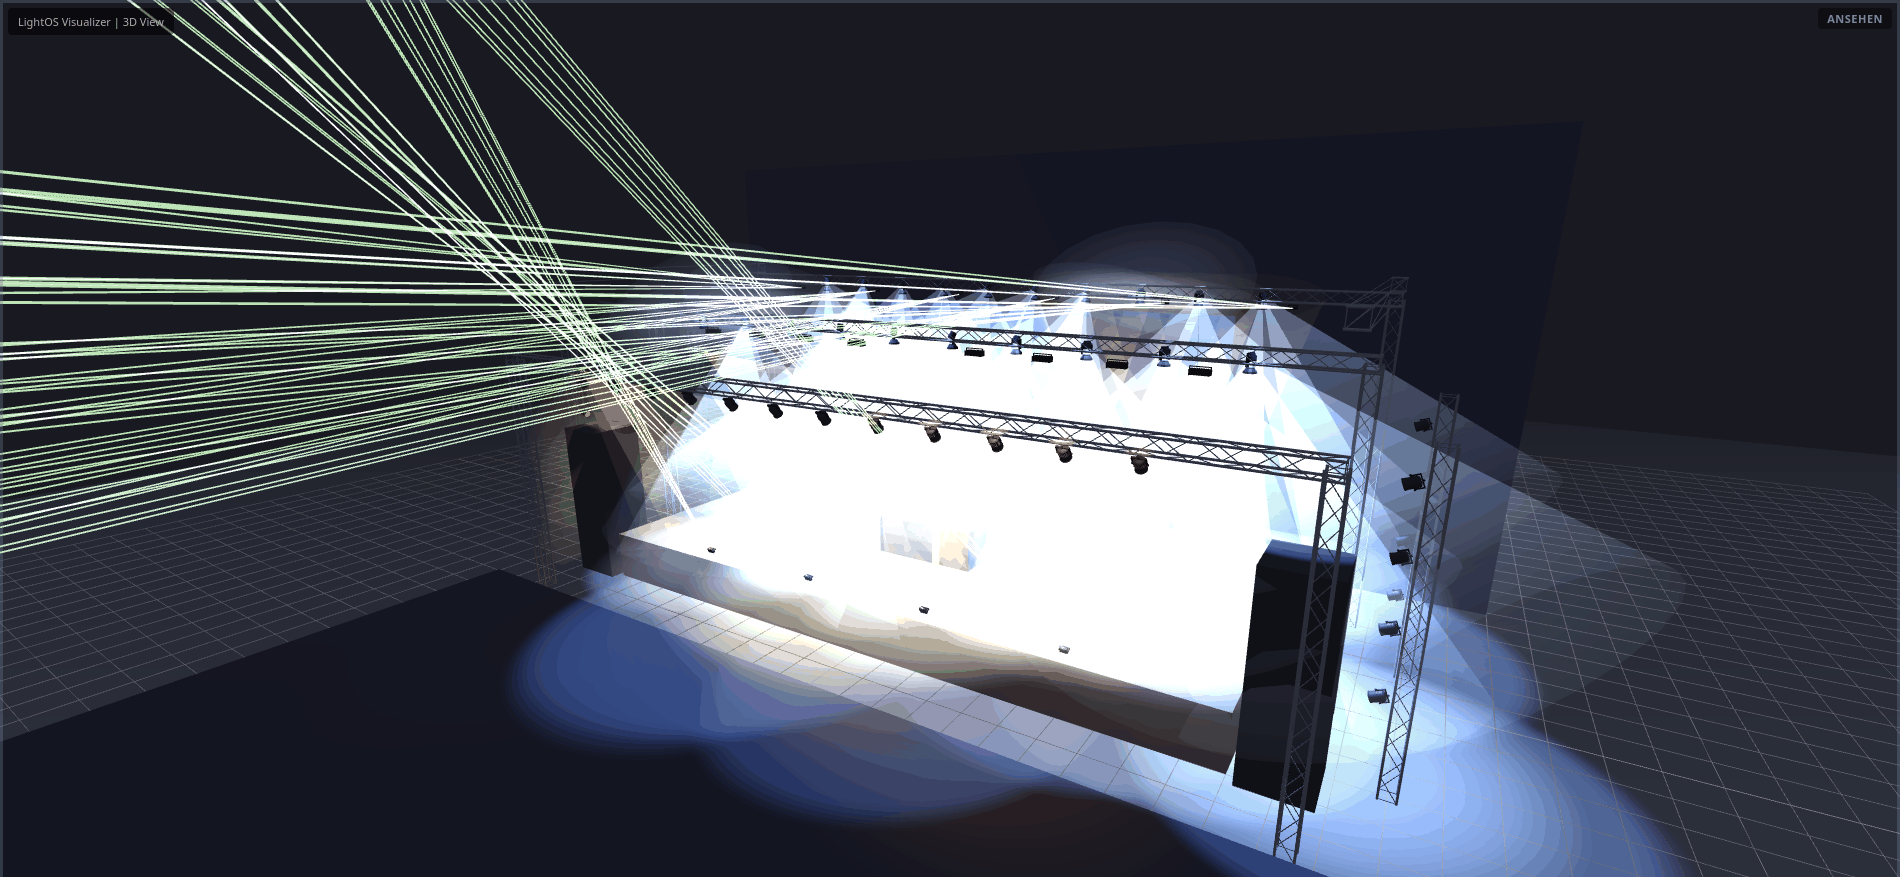
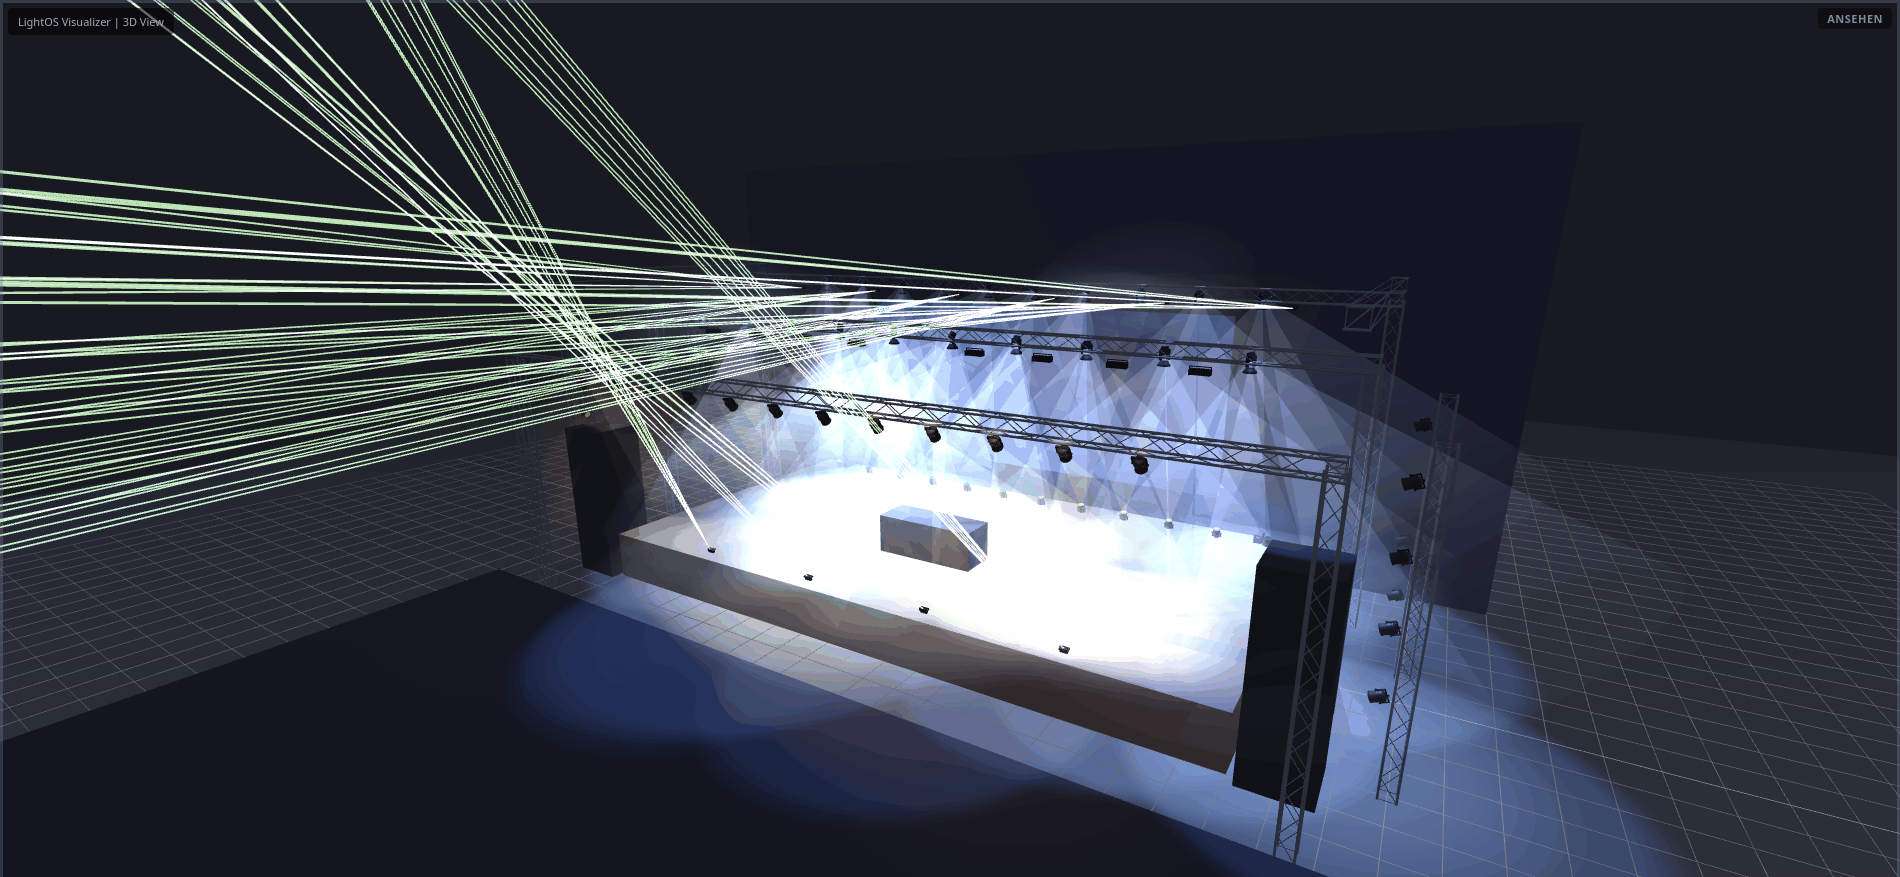
docs(show): 3D-Bilder der Buehnen-Show am Bildschirm neu, Laser + Prisma-GIF (DOC-60)
- Neues GIF 10_laser_prisma: „Laser langsam“ schwenkt die Strahlen (VIZ-79),
  Moving Heads mit Gobo + Prisma zeigen drei Kegel je Kopf (VIZ-80).
- 18_laser_3d laenger (24 Bilder, 8 s), damit der Chaser-Uebergang ganz zu
  sehen ist; Kamera naeher.
- Strahl-Deckkraft 20 %, Breakdown-Standbild mit Grand Master 40 %.
- Uebrige 3D-Bilder und VC-Seiten neu aufgenommen (Bank 2 mit fuenf
  eigenen Knoepfen, Laser NOT-AUS in der Laser-Reihe).
- VIZ-82: generische Gobos („Gobo 2“) erscheinen im 3D ohne Muster.

Changed region(s): [[0.2484, 0.2771, 0.9005, 1.0]]

diff --git a/tools/anleitungsbilder/szenen_buehnen_show.py b/tools/anleitungsbilder/szenen_buehnen_show.py
@@ -41,9 +41,9 @@ _GROESSE = (1900, 1000)     # Visualizer-Fenster
 _HINWEIS_H = 40             # unten: Bedienhinweis der 3D-Ansicht, kommt nicht ins Bild
 _TAKT = 1.0 / 44.0          # ein DMX-Frame
 
-# Darstellung: Strahlen bewusst zurueckhaltend (Deckkraft 22 %), Nebel an,
+# Darstellung: Strahlen bewusst zurueckhaltend (Deckkraft 20 %), Nebel an,
 # Szene dunkel — die Buehne bleibt zwischen den Strahlen gut sichtbar.
-STRAHL_DECKKRAFT = 22
+STRAHL_DECKKRAFT = 20
 HELLIGKEIT = 10
 
 # Kameras wie camera/presets.js (theta/phi/radius/target); theta 0 = von vorn
@@ -410,7 +410,7 @@ _GIF_ZUSCHNITT = (230, 110, 1440, 767)
 
 
 def _fahrt_gif(name, titel, knoepfe, kam_von, kam_bis, *, n=18, schritt_s=0.2,
-               vorlauf_s=1.5, breite=640, weich=True):
+               vorlauf_s=1.5, breite=640, weich=True, gm=1.0):
     """GIF mit Kamerafahrt: je Frame laeuft die Show ``schritt_s`` weiter und
     die Kamera rueckt ein Stueck von ``kam_von`` nach ``kam_bis``."""
     uhr = Uhr()
@@ -421,7 +421,7 @@ def _fahrt_gif(name, titel, knoepfe, kam_von, kam_bis, *, n=18, schritt_s=0.2,
             kamera_sofort(ui, kamera_zwischen(kam_von, kam_bis, i / max(1, n - 1),
                                               weich=weich))
         return schritt
-    return Szene(name, sektion="Bühne", vorher=_vorbereitung(knoepfe, kam_von, vorlauf_s),
+    return Szene(name, sektion="Bühne", vorher=_vorbereitung(knoepfe, kam_von, vorlauf_s, gm),
                  nachher=_aufraeumen, braucht_gpu=True, groesse=_GROESSE,
                  gif_breite=breite, gif_zuschnitt=_GIF_ZUSCHNITT, warte_s=0.3,
                  frames=[Frame(dauer_s=schritt_s, schritt=frame_schritt(i),
@@ -455,7 +455,7 @@ SZENEN = [
           nachher=_aufraeumen,
           titel="Look Drop: Lauflicht innen → außen, Schwenker A/B, Strobe-Lauf"),
     Szene("05_breakdown", sektion="Bühne", braucht_gpu=True, groesse=_GROESSE,
-          vorher=_vorbereitung(["Breakdown"], KAM_SCHRAEG, 2.0), dialog=flaeche,
+          vorher=_vorbereitung(["Breakdown"], KAM_SCHRAEG, 2.0, gm=0.4), dialog=flaeche,
           nachher=_aufraeumen, titel="Look Breakdown: Amber-Welle, blaue Moving Heads mit Gobo + Prisma, Acht"),
     Szene("06_finale", sektion="Bühne", braucht_gpu=True, groesse=_GROESSE,
           vorher=_vorbereitung(["Finale"], KAM_TOTALE, 2.33, gm=0.5), dialog=flaeche,
@@ -477,4 +477,14 @@ SZENEN = [
                 "Laser Lauf", "Laser Farbe", "MH Licht an", "Tilt-Welle", "Farbrad"],
                dict(KAM_PUBLIKUM, theta=-0.3), dict(KAM_PUBLIKUM, theta=0.1),
                n=14, schritt_s=0.12, breite=560),
+    # Laser-Bewegung (VIZ-79) und Prisma (VIZ-80) zusammen: die Laser fahren
+    # ihre liegende Acht, die Moving Heads stehen mit Prisma auf der Buehne
+    # (drei Kegel je Kopf). Grand Master 60 %, sonst brennt der Boden aus.
+    _fahrt_gif("10_laser_prisma",
+               "GIF: „Laser langsam“ schwenkt die Strahlen, Moving Heads mit Prisma "
+               "(drei Kegel je Kopf) — Kamera fährt heran",
+               ["Laser an", "Laser grün", "Laser langsam", "MH Licht an", "MH Blau",
+                "Position Bühne", "Beam schmal", "Gobo + Prisma", "Haze an"],
+               dict(KAM_TOTALE, theta=-0.2, radius=30.0), dict(KAM_NAH, theta=0.15),
+               n=22, schritt_s=0.3, breite=600, gm=0.6),
 ]

diff --git a/tools/anleitungsbilder/szenen_buehnen_effekte.py b/tools/anleitungsbilder/szenen_buehnen_effekte.py
@@ -1350,8 +1350,8 @@ SZENEN = [
           titel="Chaser: zwei Szenen übernommen, Fade In 4 s, Schließen"),
     _gif("18_laser_3d", "GIF: Laser an, Chaser „Mein Laser langsam“ schwenkt die Strahlen",
          lambda ui: (laser_bauen(ui), _fm().start(funktion(LASER).id)),
-         ["Laser an", "Laser Farbe", "Haze an"], KAM_LASER, dict(KAM_LASER, theta=0.3),
-         n=14, schritt_s=0.25),
+         ["Laser an", "Laser Farbe", "Haze an"], KAM_LASER,
+         dict(KAM_LASER, theta=0.25, radius=24.0), n=24, schritt_s=0.35, breite=600),
     # 6 VC
     Szene("19_vc_button", sektion="Virtual Console", vorher=_v16, dialog=_b16,
           titel="Button Einstellungen: Beschriftung, Funktion an/aus, Funktion, Slot"),

diff --git a/BACKLOG.md b/BACKLOG.md
@@ -943,6 +943,7 @@ _Davids Auftrag: 3D-Viewer komplett überarbeiten — intuitiv, schön, stabil, 
 | TOOL-13 | P3 | todo | **Bühnen-Generatoren schreiben die Bühne in den echten LightOS-Datenordner** | **Herkunft:** DOC-60. `build_buehnen_show_2026.py`, `build_mega_arena_2026.py`, `build_grosses_rig.py`, `build_grosse_demo_show_2026.py`, `build_laser_gobo_test.py` rufen `save_stage(...)`: neben der `.lshow` entsteht eine Bühne im Datenordner (unter Linux `~/.local/share/LightOS/stages/`), ein vorhandener Eintrag gleichen Namens wird ersetzt. Steht nur im Docstring; die Bild-Werkzeuge bauen deshalb nur in ihrer Sandbox. **Abnahme:** Bühne in die Show-Datei einbetten oder `--buehne-nicht-speichern`/Rückfrage; Hinweis in der Generator-Ausgabe. |
 | ENG-30 | P3 | todo | **Engine-Zeit je DMX-Frame bei großen Rigs messen und senken (Bühnen-Show 2026: ~11 ms von 22,7 ms)** | **Herkunft:** DOC-60 (Gesamtprüfung). `tools/build_buehnen_show_2026.py` (80 Geräte, 20 EFX-Köpfe, Matrix über 40 Spalten): `OutputManager._send_all` braucht mit Look Aufbau/Finale rund 10,7–11,4 ms je Frame (Sandbox, 200 Frames gemittelt; die erste Messung am 05.10. ergab ~15 ms). Bei 44 Hz bleibt knapp die Hälfte Luft; ein größeres Rig oder ein langsamerer Rechner (Windows-ARM) läuft an die Grenze. **Abnahme:** Profil je Funktionsart (EFX, Matrix, Chaser, Collection) für diese Show; die teuerste Stelle benannt und gesenkt oder begründet; Vergleichsmessung mit schlankerem Rig (z. B. 16 Moving Heads, 32 PAR) dokumentiert. |
 | UI-80 | P3 | todo | **Matrix-Editor meldet „ungespeicherte Änderungen“, sobald ein Tempo-Regler die Matrix beschleunigt** | **Herkunft:** DOC-60 (Bild `01_matrix_gruppe.png`). Repro: Bühnen-Show laden, Gruppe „PAR alle (links → rechts)“, Reiter Matrix — bei der unberührten Matrix „PAR Dimmer-Welle links → rechts“ steht „● ungespeicherte Änderungen“. Beleg aus dem Bildlauf: gespeichert `speed` 2,057, Arbeitskopie 1,0. **Ursache:** der VC-Regler „Tempo Welle L→R“ (`EFFECT_SPEED`) setzt das Basisfeld `Function.speed`; `RgbMatrixInstance.from_dict` liest `speed` nur noch als Altlast-Fallback für `matrix_speed` und stellt das Basisfeld nicht her (`rgb_matrix.py` ~2315) — die Entwurfs-Kopie im Editor hat 1,0. Folge vermutlich auch: Speichern aus dem Editor setzt das Regler-Tempo zurück. **Abnahme:** Entwurf übernimmt `speed` (oder der Vergleich ignoriert das Laufzeitfeld); Matrix mit Regler-Tempo ≠ 1 zeigt im Editor keinen Änderungs-Hinweis; Speichern behält das Regler-Tempo; Test. |
+| VIZ-82 | P3 | todo | **3D zeigt kein Gobo-Muster, wenn der Range-Name nur eine Nummer nennt („Gobo 2“)** | **Herkunft:** DOC-60 (Bildlauf 08.10., Bühnen-Show 2026). Der generische Moving Head `MH16`/`MH8` nennt seine Gobo-Bereiche „Gobo 1“ … „Gobo 7“ (`fixture_db._GEN_MH_GOBO`). `visualizer_service._gobo_style` erkennt das Motiv nur aus Schlüsselwörtern (`gobo_icons.gobo_style_for`) und schickt deshalb `""` — der Bodenfleck bleibt voll, obwohl „Gobo + Prisma“ läuft; das Prisma (3 Kegel) erscheint. Die 2D-Kachel zeigt bewusst nur die Nummer („kein geratenes Muster“). **Zu entscheiden:** neutrales Muster im 3D für nummerierte Gobos (z. B. ein Ring-/Punkt-Platzhalter, der klar „Gobo, Motiv unbekannt“ sagt) oder Motive im generischen Profil benennen; danach die DOC-60-Bilder `10_laser_prisma.gif` neu aufnehmen. |
 | TOOL-5 | P3 | ✅ done (2026-10-02, [PR #835](https://github.com/ixamgames-droid/lightos/pull/835), Sitzung C) | **Demo-Show-Generator: Selbstpruefung bricht ab („Global-Bus fehlt“) — und ein altes Bilder-Werkzeug zielt auf geloeschte Bilder** | **Herkunft:** DOC-17 (01.10.2026). (a) `tools/build_demo_show_full.py` speichert die Show, bricht danach aber in der Verifikation mit `AssertionError: Global-Bus fehlt: []` ab (`named_buses()` kennt „Global“ nach dem Laden nicht) — schon vor DOC-17 so, im Sandbox-Lauf gemessen. (b) `tools/capture_hochzeit_tempo_guide.py` schreibt weiter nach `docs/anleitung_hochzeit_tempo/img` (Bilder in DOC-17 entfernt, Anleitung ist auf Tempo-Controller umgestellt und bildlos) und erwartet die alten Multiplikator-Dials. **Fertig, wenn:** (a) die Pruefung die echte Bus-Lage prueft bzw. der Generator den Bus anlegt, (b) das Werkzeug stillgelegt oder auf `tools/anleitungsbilder.py` umgestellt ist. |
 | UI-65 | P3 | ✅ done (2026-10-01) — Strg+1…8-Test am echten Fenster (LNX-06 nicht mehr reproduzierbar), `MidiManager.open_input` gibt bool, faengt Backend-Fehler, respektiert den Breaker | **Reste aus der Linux-Pruefung vom 18.07. (Laptop-Archivzweig, am 30.09. abgeglichen)** | **Herkunft:** Abgleich der Archivzweige `archiv/linux-pruefung-2026-07-18/*` gegen main (30.09.2026): alles Uebrige ist auf main erledigt (MIDI-Fix dort als Circuit-Breaker seit #431, 8 von 10 LNX-Befunden behoben). Offen: (a) LNX-06 — Strg+5 oeffnete damals unter X11 die Simple-Desk-Sektion nicht. Heute bindet `main_window.py` Strg+1…8 einheitlich per QAction, ein Konflikt ist nicht zu sehen (Ursache vermutlich der inzwischen entfernte globale Hotkey-Filter) — es fehlt nur ein Test, der jede Sektions-Tastenkombination prueft. (b) `MidiView._open_input` bzw. `MidiManager.open_input` (RtMidi-Zweig) bauen `rtmidi.MidiIn()` ohne try — auf Benutzerklick, nicht beim Start; Statusanzeige nur bei Erfolg gruen. (c) LNX-02 `libxcb-cursor0` ist in INSTALL.md nachgetragen (DOC-16). |
 | UI-66 | P3 | ✅ done (2026-10-01) — zentrale Regel `src/core/cueliste_ziel.py`: Aufnahme = gewaehlte Liste; Transport = gewaehlte Liste nur wenn auf einem Executor, sonst erster belegter Executor (live-sicher, Review-Fund). | **GO/Zurück/Stop über Kommandozeile, Web-Remote und OSC treffen fest die erste Cueliste** | **Herkunft:** UI-62 (01.10.2026). Die Aufnahme folgt jetzt der im Playback gewählten Liste (`AppState.aufnahme_cueliste()`); `MainWindow._global_back` (und der Rückfall in `_global_go`), cmdline GO/BACK (parser.py ~480/502), Web `/go`,`/back`,`/stop` (web/app.py) und OSC go/back (osc_server.py) nehmen weiter `cue_stacks[0]`. **Fertig, wenn:** alle Bedienwege dieselbe Ziel-Liste nutzen (oder bewusst dokumentiert getrennt) — mit Test. |

diff --git a/docs/anleitung_buehnen_show/ANLEITUNG_BUEHNEN_SHOW.md b/docs/anleitung_buehnen_show/ANLEITUNG_BUEHNEN_SHOW.md
@@ -95,6 +95,13 @@ Kamerafahrten, während die Effekte laufen:
 
 ![Lauflicht, Strobe, Laser](img/09_lauflicht_strobe.gif)
 
+![Laser-Bewegung und Prisma](img/10_laser_prisma.gif)
+
+Im letzten GIF fahren die Laser „Laser langsam“, die Moving Heads stehen mit **Gobo + Prisma**
+auf der Bühne. Das Prisma zeigt der 3D-Visualizer als drei Kegel je Kopf (VIZ-80). Das Gobo
+bleibt dort ein voller Lichtfleck: Der generische Moving Head dieser Show nennt seine Gobos nur
+„Gobo 1“ … „Gobo 7“, und ohne Motiv im Namen zeichnet die Ansicht kein Muster (VIZ-82).
+
 Neu erzeugen (am Bildschirm, 3D braucht WebGL):
 
 ```bash
@@ -102,8 +109,8 @@ DISPLAY=:0 venv/bin/python tools/anleitungsbilder.py buehnen_show --bildschirm
 venv/bin/python tools/anleitungsbilder.py buehnen_show      # VC-Bild offscreen
 ```
 
-Darstellung im 3D-Visualizer: Strahl-Deckkraft 22 %, Nebel an, Szenen-Helligkeit 10. In den
-Standbildern Aufbau, Drop und Finale steht der Grand Master auf 50–70 %, damit der
+Darstellung im 3D-Visualizer: Strahl-Deckkraft 20 %, Nebel an, Szenen-Helligkeit 10. In den
+Standbildern Aufbau, Drop, Breakdown und Finale steht der Grand Master auf 40–70 %, damit der
 Bühnenboden nicht weiß ausbrennt.
 
 ## Leistung (ehrlich)
